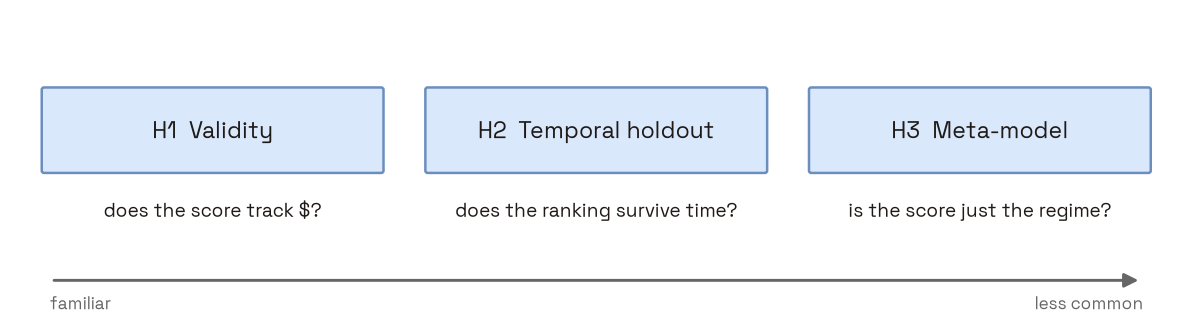
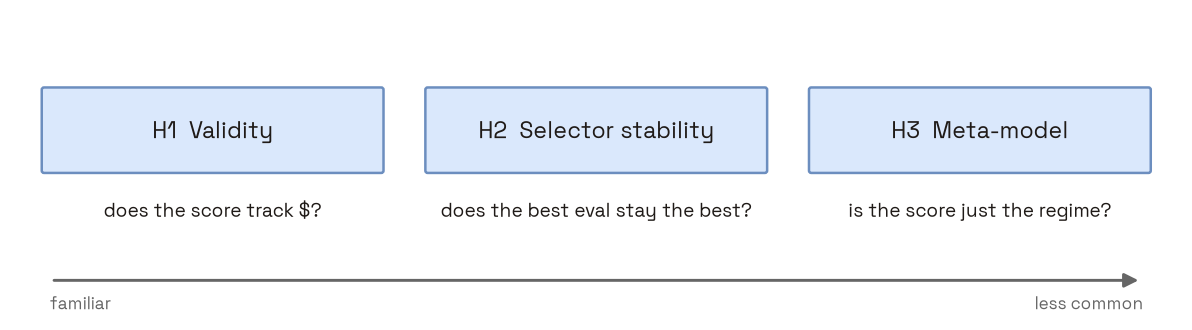
slides: new H2 slides 10/10b, heuristics map wording, eq_drift fig

Changed region(s): [[0.3725, 0.6061, 0.6518, 0.6667], [0.4035, 0.3636, 0.6208, 0.4242]]

diff --git a/slides/mockups.py b/slides/mockups.py
@@ -44,19 +44,26 @@ def save(fig, name):
 
 
 def pipeline():
-    """Slide 3: Data -> Models -> Bench -> Deploy -> $, with the slow money loop and a ? on the bench."""
-    fig, ax = canvas(10, 3.4)
-    xs = [1, 3.25, 5.5, 7.75]
-    for x, t in zip(xs, ["Data", "Models", "Benchmark", "Deploy"]):
-        box(ax, x, 2.2, t, color=RED if t == "Benchmark" else BLUE)
-    for a, b in zip(xs, xs[1:]):
-        arrow(ax, (a + 0.95, 2.2), (b - 0.95, 2.2))
-    box(ax, 9.3, 2.2, "$", w=0.8, color=GREEN, fs=14)
-    arrow(ax, (8.7, 2.2), (8.85, 2.2))
-    ax.text(5.5, 2.85, "?", ha="center", fontsize=22, color=INK, weight="bold")
-    arrow(ax, (9.3, 1.75), (5.5, 1.75), color=GREY, rad=-0.35, ls="--")
-    ax.text(7.4, 0.7, "real outcome: arrives L days late", ha="center", fontsize=10, color=GREY)
-    ax.text(5.5, 0.2, "we decide on the bench because the money is not in yet", ha="center", fontsize=9, color=GREY)
+    """Slide 3: ML lifecycle. Data -> Models -> Eval -> Deploy -> $ inside one iteration box, $ feeds the next
+    iteration's data, the money loop arrives late, and a ? on the eval."""
+    fig, ax = canvas(10, 4.6)
+    y, w, d = 2.3, 1.5, 0.08
+    xs = [1.2, 3.3, 5.4, 7.5]
+    dx = 9.3
+    ax.add_patch(FancyBboxPatch((0.25, 1.05), 9.6, 2.05, boxstyle="round,pad=0.05",
+                                fc="none", ec=GREY, lw=1.0, ls=(0, (4, 3))))
+    ax.text(0.35, 1.2, "one iteration", fontsize=9, color=GREY, va="center")
+    for x, t in zip(xs, ["Data", "Models", "Eval", "Deploy"]):
+        box(ax, x, y, t, w=w, color=RED if t == "Eval" else BLUE)
+    for a, b in zip(xs + [dx], xs[1:] + [dx]):
+        if a != b:
+            arrow(ax, (a + w / 2 + d, y), (b - (0.4 if b == dx else w / 2) - d, y))
+    box(ax, dx, y, "$", w=0.8, color=GREEN, fs=14)
+    ax.text(xs[2], 2.75, "?", ha="center", fontsize=18, color=INK, weight="bold")
+    arrow(ax, (dx, 2.72), (xs[0], 2.72), rad=0.22)
+    ax.text(5.1, 3.75, "next iteration: new data, retrain, re-eval", ha="center", fontsize=10, color=INK)
+    arrow(ax, (dx, 1.85), (xs[2], 1.85), color=GREY, rad=-0.2, ls="--")
+    ax.text(7.2, 1.18, "real outcome: arrives L days late", ha="center", fontsize=10, color=GREY)
     save(fig, "mock_pipeline.png")
 
 
@@ -84,9 +91,8 @@ def bench_of_bench():
         arrow(ax, (2.35, y), (3.9, 1.9))
     box(ax, 4.9, 1.9, "pick model\neach month", w=1.9, h=0.9, color=ORANGE, fs=10)
     arrow(ax, (5.9, 1.9), (7.0, 1.9))
-    box(ax, 7.9, 1.9, "$ after\n8 years", w=1.6, h=0.9, color=GREEN, fs=10)
+    box(ax, 7.9, 1.9, "$ after\nN months", w=1.6, h=0.9, color=GREEN, fs=10)
     arrow(ax, (7.9, 1.4), (1.3, 0.55), color=GREY, rad=-0.25, ls="--")
-    ax.text(7.9, 2.9, "grade the metric, not the model", ha="center", fontsize=10, color=INK)
     save(fig, "mock_bench_of_bench.png")
 
 
@@ -94,7 +100,7 @@ def heuristics_map():
     """Slide 7: the three checks, ordered familiar -> unusual, each tied to what it asks."""
     fig, ax = canvas(10, 2.6)
     items = [("H1  Validity", "does the score track $?", BLUE),
-             ("H2  Temporal holdout", "does the ranking survive time?", BLUE),
+             ("H2  Selector stability", "does the best eval stay the best?", BLUE),
              ("H3  Meta-model", "is the score just the regime?", BLUE)]
     for i, (h, q, c) in enumerate(items):
         x = 1.7 + i * 3.3

diff --git a/slides/eq_drift.py b/slides/eq_drift.py
@@ -1,0 +1,14 @@
+"""Render slide 4 drift factorization (Huyen 2022 ordering) as PNG."""
+import matplotlib
+matplotlib.use("Agg")
+import matplotlib.pyplot as plt
+
+matplotlib.rcParams["mathtext.fontset"] = "cm"
+EQ = r"$P(X, Y) = P(Y \mid X)\,P(X) = P(X \mid Y)\,P(Y)$"
+
+for name, transparent in [("eq_drift.png", False), ("eq_drift_transparent.png", True)]:
+    fig = plt.figure(figsize=(8, 1))
+    fig.text(0.5, 0.5, EQ, fontsize=32, ha="center", va="center")
+    fig.savefig(f"slides/{name}", dpi=300, bbox_inches="tight", pad_inches=0.15,
+                transparent=transparent, facecolor="white")
+    plt.close(fig)

diff --git a/slides/outline.md b/slides/outline.md
@@ -1,21 +1,22 @@
 # eval2 slide outline (first pass)
 
-Talk: October 10, 2026. Figures come from `uv run evalsq --grid 25` (`figures/`). Diagram mockups come from `uv run python slides/mockups.py` (`slides/mock_*.png`) and are meant to be redrawn in draw.io.
+Talk: October 10, 2026. Figures come from `uv run evalsq --grid 25` (`figures/`). Diagram mockups come from `uv run python slides/mockups.py` (`slides/mock_*.png`) and are used as final figures in the deck.
 
 1. **Title.** eval2: evaluating evals before they dictate deployment decisions. Russell Ro, October 10, 2026.
-2. **What is a benchmark?** A proxy for the thing that makes money. It is useful only while it stays predictive of that thing, and that can erode without any warning.
-3. **Pipeline.** Data → Models → Benchmark → Deploy → $. The $ arrives L days late, which is why we decide on the benchmark at all. Diagram: `mock_pipeline.png`.
-4. **Drift.** Data drift (inputs move), concept drift (the input to outcome mapping moves), label drift (how we label or score moves). The benchmark sits on top of all three. No figure, three small panels in draw.io.
-5. **Worked example.** SPY 2010 to 2025, 8-model zoo, trained through 2017. Each month: retrain and pick on data up to t−L (L = 21 trading days), deploy for the month, see the P&L a month later. Figures: `fig1_setup.png`, `mock_timeline.png`.
-6. **Benchmarking the benchmark.** Because of the lag we cannot just deploy the model that made money. So the question becomes which metric picks models that make money. Diagram: `mock_bench_of_bench.png`.
-7. **Three checks.** H1 validity (does the score track $?), H2 temporal holdout (does the ranking survive time?), H3 meta-model (is the score just the regime?). Diagram: `mock_heuristics_map.png`.
+2. **What is an eval? What is a benchmark?** Eval: measuring how a system does on a task with one or more metrics, per example, per task, or whole system in deployment [1][2]. Benchmark: a fixed dataset + metric, shared to compare methods [3]. Every benchmark is an eval, most evals are not benchmarks. Either way it is a proxy for $, and it only counts while it keeps predicting $ [4][5].
+3. **Pipeline.** Data → Models → Eval → Deploy → $. The $ arrives L days late, which is why we decide on the eval at all. Diagram: `mock_pipeline.png`.
+4. **Drift.** Three ways the world moves under a fixed eval [10]. Anchor on the joint P(x,y), split two ways: P(x,y) = P(y|x)·P(x) = P(x|y)·P(y). Each drift is one factor moving while its partner holds. Data (covariate) drift: P(x) moves, P(y|x) holds (SPY: volatility jumps in 2020, 2022) [6][7][10]. Concept drift: P(y|x) moves, P(x) holds, the same inputs now mean something else (SPY: a signal that predicted up days stops working) [8][10]. Label drift: P(y) moves, P(x|y) holds, so by Bayes P(y|x) shifts too (SPY: share of up days differs in bull vs bear years, so accuracy moves even if the model doesn't) [9][10]. Notes only, toy label-drift numbers: P(signal|up)=0.7, P(signal|down)=0.4; bull P(up)=0.6 gives P(up|signal)≈0.72, bear P(up)=0.45 gives ≈0.59. The eval sits on top of all three, and the $ only shows up L days later. No figure, three small panels in draw.io. Refs: [6] Quiñonero-Candela et al. 2009, Dataset Shift in ML (MIT Press). [7] Moreno-Torres et al. 2012, A unifying view on dataset shift, Pattern Recognition 45(1). [8] Gama et al. 2014, A survey on concept drift adaptation, ACM CSUR 46(4). [9] Lipton, Wang, Smola 2018, Detecting and correcting for label shift with black box predictors, ICML. [10] Huyen 2022, Data Distribution Shifts and Monitoring, huyenchip.com/2022/02/07/data-distribution-shifts-and-monitoring.html.
+5. **Worked example: SPY trading, but worse.** Setup: SPY daily, 2010–2025. Target is next-day up/down. Features: 1/5/20-day returns, MA10/MA50 gaps, 20-day vol, day/month. Model zoo (8): LogReg, LogReg-mom, RF, ExtraTrees-vol, GBM, GBM-mom, kNN, MLP (each gets its own feature subset). Monthly loop: (1) at month t, retrain each model and score it on data through t−L (L = 21 trading days); (2) the eval metric picks one model; (3) deploy it for the month; (4) the P&L only shows up L days later. Figures: `fig1_setup.png`, `mock_timeline.png`.
+6. **Evaluating the eval.** (final text) Because of the L-day lag (for both observing data and making actions), we can't just deploy the model that made money in short time frames. We have to pick on a proxy metric (or combination of metrics). Treat each metric as a selection rule then run through the monthly loop. Grade each rule by the $ it earned from 2018 to 2025. Metrics: Accuracy, AUC, Negative log loss, Bear accuracy, Lagged P&L, Combined. Figure: `mock_bench_of_bench.png`.
+7. **Three heuristics to consider.** (final text) H1 Validity: does the score track $? H2 Selector stability: does the best eval stay the best? H3 Meta-model: is the score mostly measuring the regime instead of the model? Diagram: `mock_heuristics_map.png`.
 8. **H1a. Does the score track $?** Accuracy correlates 0.82 with monthly Sharpe, AUC 0.35. AUC for LogReg falls to −0.55 in 2023. Figure: `fig2_h1_validity.png`.
 9. **H1b. What each metric earns.** $100k deployed by each rule, net of 1bp per trade and 0.5%/yr short borrow: bear-day accuracy $320k, accuracy $209k, AUC $182k, log-loss $167k. Never switching made $344k and SPY made $287k. The metric with the best correlation does not make the most money. Fees cost the switching rules $10k to $15k (60+ swaps, 1 to 3 flips a month); at 10bp only bear-day accuracy ($220k) and never switching ($288k) are still close to SPY. Figures: `fig5_deploy.png`, `fig6_picks.png`.
-10. **H2. Does the ranking survive time?** Train on every year before, test on one year. The better model flips 3 times, and a single 2018 split hides that RF wins in the 2022 bear. Figure: `fig3_h2_holdout.png`.
+10. **H2. Does the best eval stay the best?** Same monthly P&L as H1b, cut into blocked time folds (1-year and 2-year, never shuffled, so no fold sees a later regime). In each fold, rank the six rules by $. Bear-day accuracy wins 5 of 8 years and 2 of 4 two-year blocks, and never drops below 4th. But the winner rarely repeats: last fold's winner wins the next one 2 of 7 times (29%, chance 17%) at 1y, 1 of 3 at 2y. 2022 is won by AUC, the worst rule overall. Spoken line: "One split picks an eval. The next split usually picks a different one." Figure: `fig3_h2_folds.png`.
+10b. **H2. What trusting the winner costs.** Regret = return points lost per fold vs the best rule in hindsight. Following last fold's winner loses 7.2 pts/yr (15.7 per 2y), better than a random rule (10.9 / 22.4) but well behind always using bear-day accuracy (3.1 / 4.7). Combined is the worst fixed rule (14.4 / 32.3). Point: a robust eval is the one that is never far from best, not the one that wins most often. Caveats: 4 to 8 folds is a stability check, not a significance test, and picking bear-day accuracy as "the fixed rule" is itself hindsight. Figure: `fig3b_h2_regret.png`. Old 2-model H2 (winner flips 3 times, RF wins 2022) moved to notes; its yearly table still feeds H3.
 11. **H3. Is the score just the regime?** Predict RF yearly accuracy from that year's volatility and trend. LOO R² = −0.38, so the score still says something about the model. Figure: `fig4_h3_meta.png`.
-12. **Bonus. The more you compare, the more the leaderboard lies.** Best of k GBM configs: the bench promises 6.2pt more than it delivers at k=25, 0.1pt at k=1. Bench climbs 54% → 61% as k grows, deployed stays near 54% for every k. Why: within a month, bench acc vs deployed acc correlates 0.02, so the k=25 winner is just the luckiest config on the 63-day window and falls back to the average. The configs are nearly tied anyway (52 to 56% deployed), and the month matters more than the model (spread 9.3pt across months vs 5.4pt between models in a month). Month to month the gap swings −25 to +30pt and the best k flips between 1 and 25 with no pattern. Figures: `fig7_winners_curse.png`, `fig8_gap_dist.png`, `fig9_opt_k.png`.
-12b. **Learned benchmark. Can a model pick the model?** Ridge on the six bench signals, demeaned across the zoo, predicting next-month return minus the zoo average. No model identity, so it learns which signals matter. Trained on 2012 to 2017 months too. Refit monthly on all history $177k, on the last 36 months $191k, frozen after 36 months $149k, all net. None beat accuracy ($209k), bear-day accuracy ($320k) or never switching ($344k). Rank IC about 0 (leave one model out 0.04, t 0.9), the same story as the 0.02 within-month corr. The all-history weights settle on accuracy minus uptrend accuracy, which is close to bear-day accuracy. The frozen fit leans on lagged P&L, which flips sign after 2023: drift kills the static selector. Figure: `fig10_learned_weights.png`.
-12c. **Where learned benchmarks do work: EmbedLLM.** Task: hundreds of LLMs by thousands of benchmark questions, scored 0/1 correct. Learn an embedding per model and per question, then predict whether model M gets question Q right. Useful for (1) routing, sending each query to the cheapest model likely to get it right, and (2) estimating a new model's scores from a small subset instead of running the full suite. It works there because questions come from a fixed pool (exchangeable), a released model does not change, and the matrix is big. Stocks break all three: tomorrow is not like yesterday, models retrain, and we have 96 rows. Takeaway: a learned benchmark only transfers while new items look like the old ones. No figure.
-13. **Insights. What predicts a good benchmark, and what doesn't.** Predictive: plain accuracy (corr 0.82 with Sharpe, and it stays above 0.62 in every rolling window); scoring on the regime you fear (bear-day accuracy earns the most of any rule, $320k net); testing across many years instead of one split (H2 shows 3 winner flips). Not predictive: number of candidates k (more k inflates the bench, deployed stays flat); AUC (0.34, goes negative in 2023); combining every metric into one score (0.75 corr, $167k net, worse than accuracy alone); a learned selector under drift ($149k to $191k net, rank IC about 0); a model's bench score within a month (0.02 corr with deployed). Caveat: correlation is not money. No rule beat never switching ($344k net), and the most correlated metric was not the most profitable.
-14. **What each check catches.** H1 catches concept drift (the score to $ link moves). H2 catches data drift (regime change reorders models). H3 flags a benchmark that measures the environment more than the model. The winner's curse is selection bias, which shows up even with no drift. A learned benchmark works only if items are exchangeable.
-15. **Many more, depends on the task.** Coverage audits, label consistency, contamination. Discussion: what drift are you most exposed to, and would your benchmark notice?
+12. **Bonus. The more you compare, the more the leaderboard lies.** Best of k GBM configs: the eval promises 6.2pt more than it delivers at k=25, 0.1pt at k=1. Eval climbs 54% → 61% as k grows, deployed stays near 54% for every k. Why: within a month, eval acc vs deployed acc correlates 0.02, so the k=25 winner is just the luckiest config on the 63-day window and falls back to the average. The configs are nearly tied anyway (52 to 56% deployed), and the month matters more than the model (spread 9.3pt across months vs 5.4pt between models in a month). Month to month the gap swings −25 to +30pt and the best k flips between 1 and 25 with no pattern. Figures: `fig7_winners_curse.png`, `fig8_gap_dist.png`, `fig9_opt_k.png`.
+12b. **Learned eval. Can a model pick the model?** Ridge on the six eval signals, demeaned across the zoo, predicting next-month return minus the zoo average. No model identity, so it learns which signals matter. Trained on 2012 to 2017 months too. Refit monthly on all history $177k, on the last 36 months $191k, frozen after 36 months $149k, all net. None beat accuracy ($209k), bear-day accuracy ($320k) or never switching ($344k). Rank IC about 0 (leave one model out 0.04, t 0.9), the same story as the 0.02 within-month corr. The all-history weights settle on accuracy minus uptrend accuracy, which is close to bear-day accuracy. The frozen fit leans on lagged P&L, which flips sign after 2023: drift kills the static selector. Figure: `fig10_learned_weights.png`.
+12c. **Where learned evals do work: EmbedLLM.** Task: hundreds of LLMs by thousands of benchmark questions, scored 0/1 correct. Learn an embedding per model and per question, then predict whether model M gets question Q right. Useful for (1) routing, sending each query to the cheapest model likely to get it right, and (2) estimating a new model's scores from a small subset instead of running the full suite. It works there because questions come from a fixed pool (exchangeable), a released model does not change, and the matrix is big. Stocks break all three: tomorrow is not like yesterday, models retrain, and we have 96 rows. Takeaway: a learned eval only transfers while new items look like the old ones. No figure.
+13. **Insights. What predicts a good eval, and what doesn't.** Predictive: plain accuracy (corr 0.82 with Sharpe, and it stays above 0.62 in every rolling window); scoring on the regime you fear (bear-day accuracy earns the most of any rule, $320k net); grading the eval across many time folds instead of one split (H2: last fold's best eval repeats only 29% of the time). Not predictive: number of candidates k (more k inflates the bench, deployed stays flat); AUC (0.34, goes negative in 2023); combining every metric into one score (0.75 corr, $167k net, worse than accuracy alone); a learned selector under drift ($149k to $191k net, rank IC about 0); a model's bench score within a month (0.02 corr with deployed). Caveat: correlation is not money. No rule beat never switching ($344k net), and the most correlated metric was not the most profitable.
+14. **What each check catches.** H1 catches concept drift (the score to $ link moves). H2 catches drift in which eval works (regime change reorders the selectors, not just the models). H3 flags a eval that measures the environment more than the model. The winner's curse is selection bias, which shows up even with no drift. A learned eval works only if items are exchangeable.
+15. **Many more, depends on the task.** Coverage audits, label consistency, contamination. Discussion: what drift are you most exposed to, and would your eval notice?
